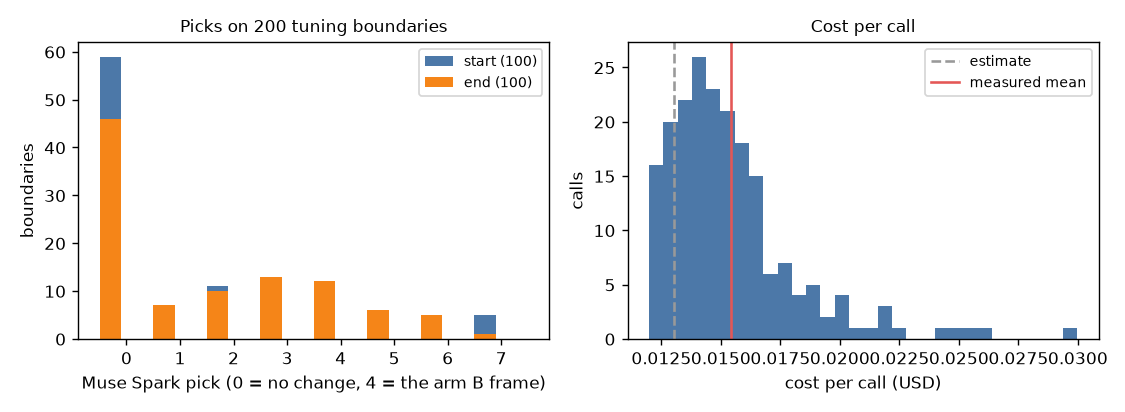
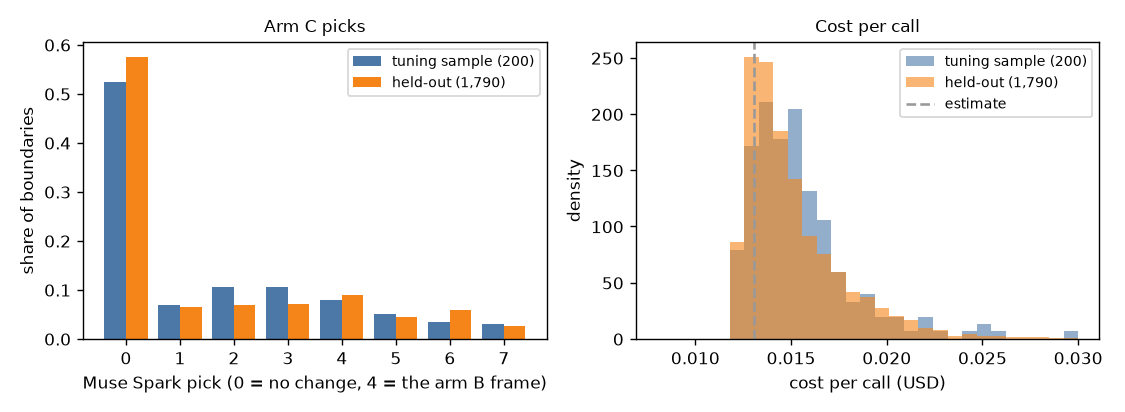
EXP-35: arm C held-out boundaries sent (P5 complete)

diff --git a/docs/experiments/exp35_arm_c.md b/docs/experiments/exp35_arm_c.md
@@ -1,46 +1,66 @@
-# EXP-35: Arm C (SAM rule + Muse Spark boundary check), tuning shift sample (P5, part 1)
+# EXP-35: Arm C (SAM rule + Muse Spark boundary check), tuning shift sample and held-out (P5)
 
-Date: 2026-10-29. Script: `scripts/muse_contact.py c --segments out/contact/rule_segments.json --sample 100 --send`.
+Date: 2026-10-29. Scripts:
+`scripts/muse_contact.py c --segments out/contact/rule_segments.json --sample 100 --send` (tuning sample),
+`scripts/muse_contact.py c --segments out/contact/rule_segments_applied.json --send` (held-out).
 Raw output: `out/number1/muse_c/episode_*/` (one file per boundary),
-`out/number1/logs/c_tune_sample_send.log`.
-Meta API cost: $3.09 (Muse Spark). Data: tuning only (200 boundaries).
+`out/number1/logs/c_tune_sample_send.log`, `c_held_out_send.log`, `c_held_out_resend.log`.
+Meta API cost: $30.28 (Muse Spark): tuning sample $3.09, held-out $27.19.
+Data: 200 tuning boundaries and the 1,790 held-out boundaries. Held-out not scored.
 
 ## Question
 
 Arm C shows Muse Spark 7 frames around each arm B boundary and asks which
 frame is the real start or end (0 means no change). The arm C timing shift is
 learned on tuning, from the boundaries Muse Spark moved. This step sends the
-tuning sample for that shift: 100 starts and 100 ends drawn at random (seed
-20261026) from the leave-one-episode-out arm B segments of EXP-32.
+tuning sample for that shift (100 starts and 100 ends drawn at random, seed
+20261026, from the leave-one-episode-out arm B segments of EXP-32) and then
+every boundary of the held-out arm B (EXP-33).
 
 ## Setup
 
-- 200 calls, one per boundary, 7 frames each.
-- Replies that never parse (plan section "Replies that never parse"): the
-  same command was run once more, then without `--send` to count what is left.
+- One call per boundary, 7 frames each, at -15, -10, -5, 0, +5, +10 and +15
+  frames from the arm B boundary. Frame 4 is the arm B frame itself.
+- Replies that never parse (plan section "Replies that never parse"): after
+  each full run the same command was run once more, then without `--send` to
+  count what is left.
+- The held-out part was sent after the user approved its cost at the price
+  measured on the tuning sample ($27.63). The first estimate ($23.31) was too
+  low.
 
 ## Results
 
-| Pass | Calls sent | Without a frame number | Cost |
+| Set | Pass | Calls sent | Without a frame number | API errors | Cost |
+| --- | --- | --- | --- | --- | --- |
+| Tuning sample | First | 200 | 0 | 0 | $3.09 |
+| Tuning sample | Second (resend) | 0 | 0 | 0 | $0 |
+| Held-out | First | 1,790 | 0 | 0 | $27.19 |
+| Held-out | Second (resend) | 0 | 0 | 0 | $0 |
+
+The count without `--send` finds nothing left in either set. No boundary gets
+the fallback (keep the arm B boundary).
+
+Cost per call:
+
+| Set | Input tokens (mean) | Output tokens (mean, 95th percentile) | Cost per call |
 | --- | --- | --- | --- |
-| First | 200 | 0 | $3.09 |
-| Second (resend) | 0 | 0 | $0 |
-| Count only | 0 | 0 | $0 |
+| Estimate | 7,700 | 800 | $0.0130 |
+| Tuning sample | 8,559 | 1,114, 2,337 | $0.0154 |
+| Held-out | 8,559 | 1,056, 2,318 | $0.0152 |
 
-- Cost: $3.09 against the $2.61 shown before sending (+18%). A call used
-  8,559 input tokens (the estimate assumed 7,700) and 1,114 output tokens on
-  average (the estimate assumed 800, median 992, 95th percentile 2,337).
-- At the measured cost per call ($0.0154), the 1,790 held-out boundaries
-  would cost about $27.63, not $23.31.
-- Picks: 105 of 200 boundaries kept ("no change"). The other 95 moved to
-  frame 1 (14), 2 (21), 3 (21), 4 (16), 5 (10), 6 (7) or 7 (6). The 7
-  frames sit at -15, -10, -5, 0, +5, +10 and +15 frames from the arm B
-  boundary, so frame 4 is the arm B frame itself.
+Picks, without ground truth:
 
-![Arm C picks and cost per call on the 200 tuning boundaries](img/exp35_arm_c_tuning_sample.png)
+| Set | Kept (0) | Moved | Moved starts | Moved ends |
+| --- | --- | --- | --- | --- |
+| Tuning sample | 105 of 200 (52.5%) | 95 | | |
+| Held-out | 1,031 of 1,790 (57.6%) | 759 | 342 of 895 | 417 of 895 |
+
+![Arm C picks and cost per call, tuning sample and held-out](img/exp35_arm_c_tuning_sample.png)
 
 ## Conclusion
 
-The tuning sample for the arm C shift is complete, with no fallback. The
-held-out part of arm C was not sent, because its cost at the measured price
-is above the range approved before the step.
+Every arm C call, tuning and held-out, has a parsed pick after the first
+pass, so the 5% limit is not reached and no fallback is used. On held-out
+Muse Spark moves 42% of the arm B boundaries, a little fewer than on the
+tuning sample (48%). The held-out answers of arms A, B and C are now
+complete for number 1. Scoring waits for the final run.

diff --git a/docs/experiments/README.md b/docs/experiments/README.md
@@ -45,6 +45,6 @@ EXP-07 counts clips for pricing only. The clip set for number 2 is EXP-11.
 | [EXP-32](exp32_arm_b_50_episodes.md) | 2026-10-28 | Arm B (SAM rule) fixed on all 50 tuning episodes (P2) | $11.89 | Leaving one episode out, arm B reaches F1 0.153 at ±5 and 0.294 at ±15, IoU 0.683 (always in contact 0.623). It makes 2.5 times too many boundaries. 46 of 50 folds pick the same rule, which is now fixed for held-out. |
 | [EXP-33](exp33_sam_held_out.md) | 2026-10-28 | SAM on the 22 held-out episodes and the fixed arm B applied (P3) | $5.45 | All 44 SAM requests completed. Arm B with the tuning rule gives 1,790 held-out boundaries (78.9 per minute, tuning 90.0), so held-out arm C costs about $23.31. Not scored yet. |
 | [EXP-34](exp34_arm_a_held_out.md) | 2026-10-29 | Arm A (Muse Spark alone) on the 22 held-out episodes (P4) | $12.44 | All 693 calls have a parsed answer after one resend of 1 call, so no fallback is used. Cost was 4.9% above the estimate. In 9 short episodes Muse Spark marks the left hand touching in at most 14% of frames. Not scored yet. |
-| [EXP-35](exp35_arm_c.md) | 2026-10-29 | Arm C, tuning shift sample (P5, part 1) | $3.09 | All 200 tuning boundaries have a parsed pick. Muse Spark moved 95 of them. Cost was 18% above the estimate, so held-out arm C would cost about $27.63. |
+| [EXP-35](exp35_arm_c.md) | 2026-10-29 | Arm C, tuning shift sample and held-out (P5) | $30.28 | All 200 tuning and 1,790 held-out boundaries have a parsed pick on the first pass. Muse Spark moved 42% of the held-out boundaries. Calls cost about 17% more than the first estimate because replies are longer. Not scored yet. |
 
-Total Meta API spend so far: about $51.93 of $150.
+Total Meta API spend so far: about $79.12 of $150.

diff --git a/docs/MEASUREMENT_PLAN.md b/docs/MEASUREMENT_PLAN.md
@@ -751,12 +751,11 @@ Estimates at measured prices, $150 in total.
 
 | Item | Cost |
 | --- | --- |
-| Spent so far (P1 pilot, arm A on 3 tuning episodes, P7a, one prompt revision on tuning, P2 SAM on 47 tuning episodes, P3 SAM on 22 held-out episodes, P4 arm A on 22 held-out episodes, the arm C tuning shift sample) | $51.93 |
-| Number 1, Muse arm C: 1,790 held-out boundaries from the applied arm B (EXP-33) at the cost per call measured on the tuning sample (EXP-35, $0.0154) | about $27.63 |
+| Spent so far (P1 pilot, arm A on 3 tuning episodes, P7a, one prompt revision on tuning, P2 SAM on 47 tuning episodes, P3 SAM on 22 held-out episodes, P4 arm A on 22 held-out episodes, P5 arm C tuning shift sample and 1,790 held-out boundaries) | $79.12 |
 | Number 2, SAM: all held-out clips plus 400 tuning clips, overlapping clips in one request | about $27 |
 | Number 2, Muse: checklist call and baseline call per clip, 1,826 clips (EXP-23 measured $0.0097 per call). P7a 400 tuning clips, then P7b 1,426 held-out clips unless the gate says stop | about $7.7 + $27.6 |
 | Soft object check: 1,426 HOT3D clips at about $0.0075 and about 330 OpenGraph segments at about $0.0094 (3 frames each), plus a pilot of 20 | about $14 |
-| Total (spent $51.93, still to send: arm C held-out about $27.63, number 2 SAM $26.48, P7b $27.6, soft check about $14) | about $148 |
+| Total (spent $79.12, still to send: number 2 SAM $26.48, P7b $27.6, soft check about $14) | about $147 |
 
 Muse costs assume about 1,100 tokens per frame (measured on 720p OpenGraph
 frames). Each arm is first run on one tuning episode or a few clips to
